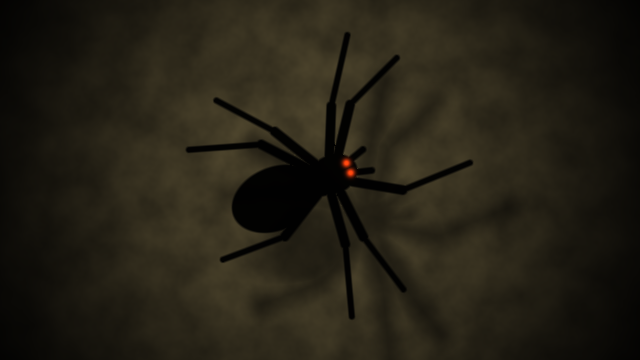
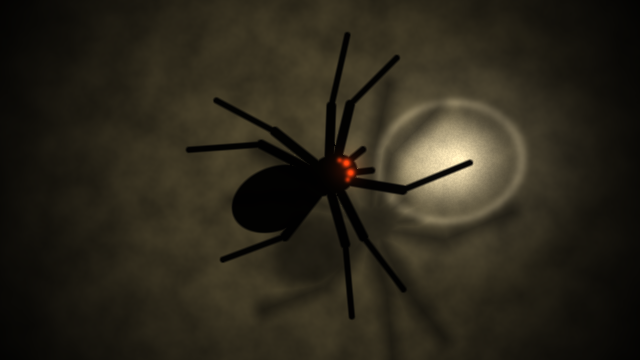
Tests, previews and docs for Shadow Puppets, spider options and the new menus
Claude-Session: https://claude.ai/code/session_01Dtpr5XTi5doqNDUMNdXbQr

Changed region(s): [[0.5, 0.2444, 0.8438, 0.6417]]

diff --git a/tools/shader-preview/check.js b/tools/shader-preview/check.js
@@ -40,7 +40,7 @@ for (const f of files) src[f] = load(f);
       if (!gl.getProgramParameter(p, gl.LINK_STATUS)) errors.push(`link ${v}+${f}: ` + gl.getProgramInfoLog(p));
       progs[f] = p; return p;
     }
-    const pairs = [['fullscreen.vert','fog.frag'],['fullscreen.vert','swarm_floor.frag'],['spider.vert','spider.frag'],
+    const pairs = [['fullscreen.vert','fog.frag'],['fullscreen.vert','swarm_floor.frag'],['spider.vert','spider.frag'],['sprite.vert','web.frag'],
       ['fullscreen.vert','ripple_update.frag'],['fullscreen.vert','fluid.frag'],['fullscreen.vert','water_shapes.frag'],
       ['fullscreen.vert','water.frag'],['warp.vert','warp.frag'],['overlay.vert','overlay.frag']];
     for (const [v, f] of pairs) program(v, f);
@@ -115,38 +115,59 @@ for (const f of files) src[f] = load(f);
     gl.activeTexture(gl.TEXTURE1); gl.bindTexture(gl.TEXTURE_2D, shapes.tex); gl.uniform1i(u('uShapes'), 1);
     fsq(); snap('water');
 
-    // SWARM: floor + instanced spiders (shadow style), then spectral style
-    for (const [name, style] of [['swarm', 0], ['swarm_spectral', 1]]) {
+    // SWARM: floor + webs + instanced spiders, in each look the scene offers.
+    // opts: style, realism, radioactive, eyeGlow, shadow3d, sizeMix, webs, giant, closeup
+    function swarm(name, o) {
       screen();
-      p = progs['swarm_floor.frag']; gl.useProgram(p); common(2.0, people); f1('uLight', style === 0 ? 0.6 : 0.0); gl.uniform2f(u('uFlash'), 1.25, 0.55); f1('uFlashRadius', 0.2); f1('uFlashPower', 0.9); fsq();
-      const n = 120, data = new Float32Array(n * 6);
-      let seed = 1; const rnd = () => (seed = (seed * 16807) % 2147483647) / 2147483647;
-      for (let i = 0; i < n; i++) data.set([0.1 + rnd() * (W2 - 0.2), 0.1 + rnd() * 0.8, rnd() * 6.28, 0.028 * (0.75 + rnd() * 0.5), rnd() * 6.28, rnd() < 0.2 ? 1 : 0], i * 6);
+      const flash = [1.25, 0.55];
+      p = progs['swarm_floor.frag']; gl.useProgram(p); common(2.0, o.closeup ? [] : people); f1('uLight', o.style ? 0.0 : (o.closeup ? 0.8 : 0.6)); gl.uniform2f(u('uFlash'), flash[0], flash[1]); f1('uFlashRadius', 0.2); f1('uFlashPower', 0.9); fsq();
+      gl.enable(gl.BLEND); gl.blendFunc(gl.ONE, gl.ONE_MINUS_SRC_ALPHA);
+      if (o.webs) {
+        const wd = new Float32Array([0.45, 0.7, 1.0, 0.11, 0.9, 0.9, 0.95, 1, 1.0, 3.1, 0, 0,
+                                     1.3, 0.3, 2.0, 0.09, 1.3, 1.3, 1.4, 1, 0.6, 7.7, 0, 0,
+                                     0.9, 0.25, 0.5, 0.08, 0.9, 0.9, 0.95, 1, 1.0, 1.3, 0.45, 0]);
+        const wv = gl.createVertexArray(); gl.bindVertexArray(wv);
+        const wb = gl.createBuffer(); gl.bindBuffer(gl.ARRAY_BUFFER, wb); gl.bufferData(gl.ARRAY_BUFFER, wd, gl.STATIC_DRAW);
+        for (let a = 0; a < 3; a++) { gl.enableVertexAttribArray(a); gl.vertexAttribPointer(a, 4, gl.FLOAT, false, 48, a * 16); gl.vertexAttribDivisor(a, 1); }
+        p = progs['web.frag']; gl.useProgram(p); f1('uAspect', W2); gl.uniform2f(u('uOffset'), 0, 0);
+        gl.drawArraysInstanced(gl.TRIANGLE_STRIP, 0, 4, 3);
+      }
+      let data;
+      let n;
+      if (o.closeup) { data = new Float32Array([W2 / 2, 0.5, 0.4, 0.42, 1.0, 0.5, 0.02, 1.0]); n = 1; }
+      else {
+        n = 120; data = new Float32Array((n + 1) * 8);
+        let seed = 1; const rnd = () => (seed = (seed * 16807) % 2147483647) / 2147483647;
+        for (let i = 0; i < n; i++) {
+          let sz = 0.75 + rnd() * 0.5;
+          if (o.sizeMix) { const h = rnd(); sz *= h < 0.55 ? 0.55 : h < 0.9 ? 1.2 : 2.6; }
+          data.set([0.1 + rnd() * (W2 - 0.2), 0.1 + rnd() * 0.8, rnd() * 6.28, 0.028 * sz, rnd() * 6.28, rnd() < 0.2 ? 1 : 0, 0.02, rnd() * 10], i * 8);
+        }
+        if (o.webs) { data.set([0.45, 0.7, 0.3, 0.03, 1.0, 0.0, 0.02, 2.0], 0); }
+        if (o.giant) { data.set([0.95, 0.5, 3.6, 0.2 * (1 + o.giant * 0.6), 2.0, 1.0, o.giant, 3.3], n * 8); n++; }
+      }
       const ivao = gl.createVertexArray(); gl.bindVertexArray(ivao);
       const buf = gl.createBuffer(); gl.bindBuffer(gl.ARRAY_BUFFER, buf); gl.bufferData(gl.ARRAY_BUFFER, data, gl.STATIC_DRAW);
-      gl.enableVertexAttribArray(0); gl.vertexAttribPointer(0, 4, gl.FLOAT, false, 24, 0); gl.vertexAttribDivisor(0, 1);
-      gl.enableVertexAttribArray(1); gl.vertexAttribPointer(1, 2, gl.FLOAT, false, 24, 16); gl.vertexAttribDivisor(1, 1);
-      gl.enable(gl.BLEND); gl.blendFunc(gl.ONE, gl.ONE_MINUS_SRC_ALPHA);
+      gl.enableVertexAttribArray(0); gl.vertexAttribPointer(0, 4, gl.FLOAT, false, 32, 0); gl.vertexAttribDivisor(0, 1);
+      gl.enableVertexAttribArray(1); gl.vertexAttribPointer(1, 4, gl.FLOAT, false, 32, 16); gl.vertexAttribDivisor(1, 1);
       p = progs['spider.frag']; gl.useProgram(p);
-      f1('uAspect', W2); f1('uStyle', style); gl.uniform2f(u('uShadowOffset'), 0.25, -0.3);
-      if (style === 0) { f1('uShadowPass', 1); gl.drawArraysInstanced(gl.TRIANGLE_STRIP, 0, 4, n); }
-      f1('uShadowPass', 0); gl.drawArraysInstanced(gl.TRIANGLE_STRIP, 0, 4, n);
+      f1('uAspect', W2); f1('uStyle', o.style || 0); gl.uniform2f(u('uShadowOffset'), 0.25, -0.3); f1('uTime', 2.0);
+      f1('uShadow3D', o.shadow3d ? 1 : 0); gl.uniform2f(u('uLightPos'), o.closeup ? W2 / 2 - 0.3 : flash[0], o.closeup ? 0.75 : flash[1]); f1('uLightRadius', o.closeup ? 0.6 : 0.2); f1('uLightPower', 0.9);
+      f1('uLantern', o.style ? 0 : 0.6); f1('uEyeGlow', o.eyeGlow ?? 0.4); f1('uRadioactive', o.radioactive ? 1 : 0); f1('uRealism', o.realism ? 1 : 0);
+      f1('uGlowPass', 0); f1('uQuadScale', 1);
+      if (!o.style) { f1('uShadowPass', 1); gl.drawArraysInstanced(gl.TRIANGLE_STRIP, 0, 4, n); }
+      f1('uShadowPass', 0);
+      if (o.radioactive) { f1('uGlowPass', 1); f1('uQuadScale', 2.6); gl.drawArraysInstanced(gl.TRIANGLE_STRIP, 0, 4, n); f1('uGlowPass', 0); f1('uQuadScale', 1); }
+      gl.drawArraysInstanced(gl.TRIANGLE_STRIP, 0, 4, n);
       gl.disable(gl.BLEND); snap(name);
     }
-
-    // CLOSE-UP of one spider
-    screen();
-    { p = progs['swarm_floor.frag']; gl.useProgram(p); common(2.0, []); f1('uLight', 0.8); fsq();
-      const ivao = gl.createVertexArray(); gl.bindVertexArray(ivao);
-      const buf = gl.createBuffer(); gl.bindBuffer(gl.ARRAY_BUFFER, buf);
-      gl.bufferData(gl.ARRAY_BUFFER, new Float32Array([W2 / 2, 0.5, 0.4, 0.42, 1.0, 0.5]), gl.STATIC_DRAW);
-      gl.enableVertexAttribArray(0); gl.vertexAttribPointer(0, 4, gl.FLOAT, false, 24, 0); gl.vertexAttribDivisor(0, 1);
-      gl.enableVertexAttribArray(1); gl.vertexAttribPointer(1, 2, gl.FLOAT, false, 24, 16); gl.vertexAttribDivisor(1, 1);
-      gl.enable(gl.BLEND); gl.blendFunc(gl.ONE, gl.ONE_MINUS_SRC_ALPHA);
-      p = progs['spider.frag']; gl.useProgram(p); f1('uAspect', W2); f1('uStyle', 0); gl.uniform2f(u('uShadowOffset'), 0.25, -0.3);
-      f1('uShadowPass', 1); gl.drawArraysInstanced(gl.TRIANGLE_STRIP, 0, 4, 1);
-      f1('uShadowPass', 0); gl.drawArraysInstanced(gl.TRIANGLE_STRIP, 0, 4, 1);
-      gl.disable(gl.BLEND); snap('spider_closeup'); }
+    swarm('swarm', { shadow3d: true, sizeMix: true });
+    swarm('swarm_spectral', { style: 1 });
+    swarm('spider_closeup', { closeup: true });
+    swarm('spider_realistic', { closeup: true, realism: true, shadow3d: true, eyeGlow: 0.8 });
+    swarm('swarm_realistic_webs', { realism: true, shadow3d: true, webs: true, sizeMix: true });
+    swarm('swarm_radioactive', { radioactive: true, eyeGlow: 1.0, shadow3d: true });
+    swarm('swarm_giant', { giant: 0.4, realism: true, shadow3d: true, eyeGlow: 1.0 });
 
     // WARP: fog canvas through a keystone quad with edit grid + handles, and a dissolve transition
     const fogT = target(W, H); gl.bindFramebuffer(gl.FRAMEBUFFER, fogT.fb); gl.viewport(0, 0, W, H);

diff --git a/tools/shader-preview/check-puppets.js b/tools/shader-preview/check-puppets.js
@@ -1,0 +1,69 @@
+// Renders the Shadow Puppets scene (puppet_floor.frag + puppet.frag) in headless WebGL2:
+// a gallery of every puppet and a scene with puppets gathering around a person.
+// Usage: PW=<path to playwright> node check-puppets.js <assets/shaders dir> <output dir>
+const fs = require('fs');
+const path = require('path');
+const { chromium } = require(process.env.PW || 'playwright');
+const dir = process.argv[2], outDir = process.argv[3];
+function load(p) {
+  return fs.readFileSync(path.join(dir, p), 'utf8').split('\n')
+    .map(l => l.trim().startsWith('#include') ? load(l.split('"')[1]) : l).join('\n');
+}
+const src = {};
+for (const f of fs.readdirSync(dir)) src[f] = load(f);
+const A = 16 / 9;
+// [type, x, y, size, stretch, phase, reach, facing]
+const gallery = [[0, 0.2, 0.1, 0.4, 1.0, 0.6, 0, 1], [1, 0.75, 0.1, 0.4, 1.0, 1.5, 0.3, 1], [2, 1.35, 0.1, 0.4, 1.0, 0.8, 0.2, 1]];
+const gallery2 = [[3, 0.35, 0.0, 0.42, 1.0, 1.2, 0.3, 1], [4, 1.2, 0.3, 0.38, 1.0, 1.0, 0, 1]];
+const scene = [[2, 0.55, 0.12, 0.18, 1.3, 1.0, 1.0, 1], [1, 1.12, 0.3, 0.17, 1.3, 2.0, 0.8, 0], [0, 1.45, 0.08, 0.17, 1.3, 0.3, 0.2, 0],
+               [3, 0.88, -0.02, 0.18, 1.5, 0.7, 1.0, 1], [4, 0.3, 0.68, 0.13, 1.2, 1.4, 0, 1]];
+(async () => {
+  const browser = await chromium.launch({ args: ['--use-gl=angle', '--use-angle=swiftshader', '--enable-unsafe-swiftshader'] });
+  const page = await browser.newPage({ viewport: { width: 960, height: 540 } });
+  await page.setContent('<canvas id=c width=960 height=540></canvas>');
+  const out = await page.evaluate(({ src, gallery, gallery2, scene, A }) => {
+    const gl = document.getElementById('c').getContext('webgl2', { preserveDrawingBuffer: true });
+    const mk = (v, f) => {
+      const sh = (t, c, n) => { const x = gl.createShader(t); gl.shaderSource(x, c); gl.compileShader(x); if (!gl.getShaderParameter(x, gl.COMPILE_STATUS)) throw new Error(n + ': ' + gl.getShaderInfoLog(x)); return x; };
+      const p = gl.createProgram(); gl.attachShader(p, sh(gl.VERTEX_SHADER, src[v], v)); gl.attachShader(p, sh(gl.FRAGMENT_SHADER, src[f], f)); gl.linkProgram(p);
+      if (!gl.getProgramParameter(p, gl.LINK_STATUS)) throw new Error(gl.getProgramInfoLog(p)); return p;
+    };
+    const floor = mk('fullscreen.vert', 'puppet_floor.frag'), pup = mk('sprite.vert', 'puppet.frag');
+    const res = {};
+    let candle = [A / 2, -3.0];
+    function draw(name, list) {
+      gl.viewport(0, 0, 960, 540);
+      gl.useProgram(floor);
+      const u = n => gl.getUniformLocation(floor, n);
+      gl.uniform2f(u('uResolution'), 960, 540); gl.uniform1f(u('uTime'), 2.0);
+      gl.uniform2f(u('uCandle'), A / 2, 0.25); gl.uniform1f(u('uBrightness'), 1.1); gl.uniform1f(u('uFlicker'), 0.7); gl.uniform3f(u('uTint'), 1.0, 0.62, 0.3);
+      gl.drawArrays(gl.TRIANGLES, 0, 3);
+      const data = new Float32Array(list.length * 12);
+      list.forEach(([type, x, y, size, stretch, ph, reach, facing], i) => {
+        // Up = away from the candle (hands: up = given direction).
+        let ux = x - candle[0], uy = y - candle[1];
+        if (type === 3) { ux = 0; uy = 1; }
+        const l = Math.hypot(ux, uy); ux /= l; uy /= l;
+        const ang = Math.atan2(uy, ux) - Math.PI / 2;
+        const half = size * stretch;
+        data.set([x + ux * half, y + uy * half, ang, half, ph, reach, facing, 1, type, i * 1.7, stretch, 0.035], i * 12);
+      });
+      const vao = gl.createVertexArray(); gl.bindVertexArray(vao);
+      const b = gl.createBuffer(); gl.bindBuffer(gl.ARRAY_BUFFER, b); gl.bufferData(gl.ARRAY_BUFFER, data, gl.STATIC_DRAW);
+      for (let a = 0; a < 3; a++) { gl.enableVertexAttribArray(a); gl.vertexAttribPointer(a, 4, gl.FLOAT, false, 48, a * 16); gl.vertexAttribDivisor(a, 1); }
+      gl.useProgram(pup); gl.uniform1f(gl.getUniformLocation(pup, 'uAspect'), A); gl.uniform2f(gl.getUniformLocation(pup, 'uOffset'), 0, 0);
+      gl.enable(gl.BLEND); gl.blendFunc(gl.ONE, gl.ONE_MINUS_SRC_ALPHA);
+      gl.drawArraysInstanced(gl.TRIANGLE_STRIP, 0, 4, list.length);
+      gl.disable(gl.BLEND);
+      res[name] = document.getElementById('c').toDataURL('image/png');
+    }
+    draw('puppets_gallery', gallery);
+    draw('puppets_gallery2', gallery2);
+    draw('puppets', scene);
+    return res;
+  }, { src, gallery, gallery2, scene, A });
+  fs.mkdirSync(outDir, { recursive: true });
+  for (const [k, v] of Object.entries(out)) fs.writeFileSync(path.join(outDir, k + '.png'), Buffer.from(v.split(',')[1], 'base64'));
+  console.log('rendered', Object.keys(out).join(', '));
+  await browser.close();
+})().catch(e => { console.error(e.message); process.exit(1); });

diff --git a/app/src/test/java/com/phantomfloor/scenes/HalloweenOptionsTest.kt b/app/src/test/java/com/phantomfloor/scenes/HalloweenOptionsTest.kt
@@ -1,0 +1,68 @@
+package com.phantomfloor.scenes
+
+import com.phantomfloor.audio.Sfx
+import com.phantomfloor.audio.SoundSink
+import com.phantomfloor.engine.FrameState
+import com.phantomfloor.engine.PersonPoint
+import org.junit.Assert.assertEquals
+import org.junit.Assert.assertTrue
+import org.junit.Test
+
+/** Headless checks of the Swarm's new options and the Shadow Puppets' behaviour (no GL needed). */
+class HalloweenOptionsTest {
+
+    private class Run(val scene: Scene) {
+        val frame = FrameState()
+        val sounds = ArrayList<Sfx>()
+        init { frame.sound = object : SoundSink { override fun play(sfx: Sfx, volume: Float, pan: Float) { sounds += sfx } } }
+        fun set(key: String, v: Float) { scene.params.first { it.key == key }.value = v }
+        fun run(seconds: Float, who: List<Pair<Float, Float>>) {
+            var t = 0f
+            while (t < seconds) {
+                t += 1f / 60f
+                frame.time += 1f / 60f; frame.dt = 1f / 60f
+                frame.setPeople(who.mapIndexed { i, (x, y) -> PersonPoint(i + 1, x, y, 0f, 0f, 0L) })
+                scene.update(frame)
+            }
+        }
+    }
+
+    @Test
+    fun giantSpiderDropsInFrontOfSomeoneOnSchedule() {
+        val r = Run(SwarmScene())
+        r.set("giant", 1f)
+        r.set("giantEvery", 10f)
+        r.run(20f, emptyList())
+        assertEquals("no giant without anyone on the floor", 0, r.sounds.count { it == Sfx.STINGER })
+        r.run(14f, listOf(0.5f to 0.5f))
+        assertEquals("one giant spider after the interval", 1, r.sounds.count { it == Sfx.STINGER })
+    }
+
+    @Test
+    fun spidersSpinWebsThatTearWhenWalkedThrough() {
+        val r = Run(SwarmScene())
+        r.set("webs", 1f)
+        r.set("count", 200f)
+        r.run(25f, emptyList())
+        // A walker sweeping the whole floor tears whatever webs were built.
+        var x = 0.02f
+        var y = 0.05f
+        while (y < 0.95f) {
+            r.run(0.05f, listOf(x to y))
+            x += 0.04f
+            if (x > 0.98f) { x = 0.02f; y += 0.06f }
+        }
+        assertTrue("webs were torn", r.sounds.count { it == Sfx.RUSTLE } > 0)
+    }
+
+    @Test
+    fun puppetsComeToSomeoneAndCallOut() {
+        val r = Run(ShadowPuppetsScene())
+        r.set("follow", 1f)
+        r.run(5f, emptyList())
+        val voices = setOf(Sfx.CACKLE, Sfx.MOAN, Sfx.GROAN, Sfx.WHISPER)
+        assertEquals("quiet with nobody there", 0, r.sounds.count { it in voices })
+        r.run(20f, listOf(0.5f to 0.4f))
+        assertTrue("puppets noticed the person", r.sounds.count { it in voices } > 0)
+    }
+}

diff --git a/README.md b/README.md
@@ -94,7 +94,7 @@ releases, so uninstall one before installing the other.
 2. **Tap** anywhere on the projection to open the control panel; tap again to close it.
 3. **Edit keystone**: drag the 4 corner handles until the glowing grid fits the floor. You can drag several corners at once. Press **Done** when finished. The corners are saved.
 4. **Calibrate camera to floor**: keep the floor clear and hold the camera still. The projector shows a black frame, then four white dots one at a time. The camera finds each dot and fits a camera→floor homography. This also absorbs the keystone and any camera tilt. The result is saved.
-5. Choose a scene and tune its sliders. Turn on **Show tracked points** to see green rings under detected feet.
+5. Pick a **category** (the coloured tabs: Halloween, Scary, Winter…), then an **animation** in the card below it, and tune its sliders. Turn on **Show tracked points** to see green rings under detected feet.
 
 With **Touch acts as a person** turned on, fingers on the screen act as feet. This lets you test every scene without the camera.
 
@@ -117,7 +117,7 @@ casting, or an HDMI / USB-C adapter.
 
 | Season | Scenes |
 |---|---|
-| Halloween | Ectoplasmic Fog, Ground Smoke, The Swarm, Cursed Fluid, Living Water |
+| Halloween | Ectoplasmic Fog, Ground Smoke, The Swarm, Cursed Fluid, Living Water, Shadow Puppets |
 | Scary | Jump Scare, Eyes in the Dark, Grasping Hands |
 | Winter | Snowfall, Christmas, Hanukkah |
 | Fall | Fall Leaves |
@@ -146,6 +146,31 @@ phone screen.
 | **Balloon Pop** | Balloons float across the floor. Pop them by stepping on them; gold ones are worth 5. |
 | **Floor is Lava** | Tiles cover the whole floor; they flash, then turn to lava, faster as the round goes on. Everyone has 3 lives; standing on lava costs one. Survive as long as you can (90 s round). |
 | **Coloring** | Free play: step on a colour swatch, then walk to paint. Pick an outline (pumpkin, star, heart, house, fish) and hold **CLEAR** to start over. |
+
+## Shadow Puppets and The Swarm's options
+
+| ![puppets](docs/previews/puppets.png) | ![realistic spiders and webs](docs/previews/swarm_realistic_webs.png) | ![radioactive](docs/previews/swarm_radioactive.png) |
+|---|---|---|
+
+**Shadow Puppets** lights the floor with flickering candlelight (or cold moonlight) and casts
+shadows of witches (walking, or riding a broom), sheet ghosts, shambling zombies and long clawed
+hands across it. They wander on their own; when someone walks on, zombies shamble over with arms
+out, ghosts drift close and lift their sleeves, witches circle and cackle, and hands creep in from
+the edges to claw at feet. Puppets fade away now and then and reappear elsewhere, so the cast keeps
+changing. Settings: how many, which cast, size, shadow length, how strongly they're drawn to people,
+speed, light level and candle/moonlight colour.
+
+**The Swarm** has new options:
+
+| Option | What it does |
+|---|---|
+| Mix of sizes | Mostly small spiders, some medium, a few huge ones. |
+| Realistic spiders | Three-segment hairy legs, banded and knobbly; patterned, rounded bodies with a glossy highlight, lit by the flashlight. |
+| Glowing eyes | From a faint glint to bright eyeshine with a halo. |
+| Radioactive spiders | Glowing green markings that pulse, and green light spilling onto the floor around each one. |
+| 3D shadows from the flashlight | Each spider casts its shadow away from the moving torch, longer and softer the further it is from the beam. |
+| Web building | Calm spiders stop and spin orb webs (spokes, then the spiral, with dew drops that catch the torch). Walking through a web tears it. |
+| Giant jump-scare spider | Every so often, with someone on the floor, a huge spider drops from above in front of them (its shadow rushes in first), rears up hissing, lunges, and scuttles away while the swarm scatters. |
 
 ## Scary
 
@@ -252,8 +277,9 @@ rejected while dragging. Touches are mapped back through the inverse homography.
 | Scene | Technique | Reacts to people | Reacts to sound |
 |---|---|---|---|
 | **Ectoplasmic Fog** | 2-level domain-warped simplex fBm, light-offset sample for fake volumetric self-shadowing, ridged-noise wisps, purple/green region mixing | Fog is pushed out, swirls around moving legs, follows their wake, and leaves a clear pocket with a glowing rim | Bass thickens the fog, loud sounds churn it faster, beats flash lightning |
-| **The Swarm** | CPU Boids (separation, alignment, cohesion, wander, stop-and-go, soft walls) on a uniform spatial grid; one instanced draw of SDF spiders with an animated tetrapod gait; a hand-held flashlight beam that sweeps the floor on a damped spring with hand tremor | Spiders flee from feet (fast feet scare more) and scurry out of the flashlight beam. Panic spreads to neighbours as a scatter wave. Eyes glow hotter when panicked | Loud onsets startle the whole swarm. Beats flash the lantern light |
+| **The Swarm** | CPU Boids (separation, alignment, cohesion, wander, stop-and-go, soft walls) on a uniform spatial grid; one instanced draw of SDF spiders with an animated tetrapod gait; a hand-held flashlight beam that sweeps the floor on a damped spring with hand tremor; per-spider shadows projected away from the torch; orb webs drawn as polar SDFs | Spiders flee from feet (fast feet scare more) and scurry out of the flashlight beam. Panic spreads to neighbours as a scatter wave. Eyes glow hotter when panicked | Loud onsets startle the whole swarm. Beats flash the lantern light |
 | **Cursed Fluid** | Flow-displaced animated Voronoi, bubbles that swell and pop, GPU wave-equation ripples; finite-difference normals with wet specular (blood) or glowing cracks (lava) | Pool tendrils creep toward each person; footsteps splash ripples | Bass boosts bubbling and lava heat; beats drop ripples |
+| **Shadow Puppets** | Side-view SDF silhouettes (witch, broom witch, ghost with see-through eyes, zombie, clawed hand) with procedural walk cycles, drawn as soft-edged shadows over a flickering candle-lit plaster floor | Puppets notice nearby people and come to them, reaching out; hands creep from the edges toward feet | — |
 | **Living Water** | Ripple simulation + a half-res monster height-field pass (tentacles, skeletal hand, screaming face, built from tube/dome primitives) + refracted Voronoi caustics | Monsters surface near people, turn toward them, and sink with a splash when stepped on; eyes in the water close as people approach | The face's mouth opens with loudness; loud beats summon a monster |
 | **Ground Smoke** | GPU stable fluids: splats, vorticity confinement, Jacobi pressure projection, semi-Lagrangian advection; a colour channel stirred in by motion; a fading footprint-glow field | Feet drag the smoke along, shove it aside and leave curling wakes. Moving through it tints it (rainbow by speed, or a fixed colour) and each step leaves a glowing shoe print | Bass makes the fog machines puff harder |
 | **Snowfall / Christmas / Hanukkah** | Snow-depth field (shoe-shaped prints with tread, left and right feet alternating along the walking direction; fresh snow refills them), instanced six-fold snowflakes with shadows, string lights, menorah | Footprints with crunching steps, flakes blown aside by passers-by | Beats brighten the scene |
